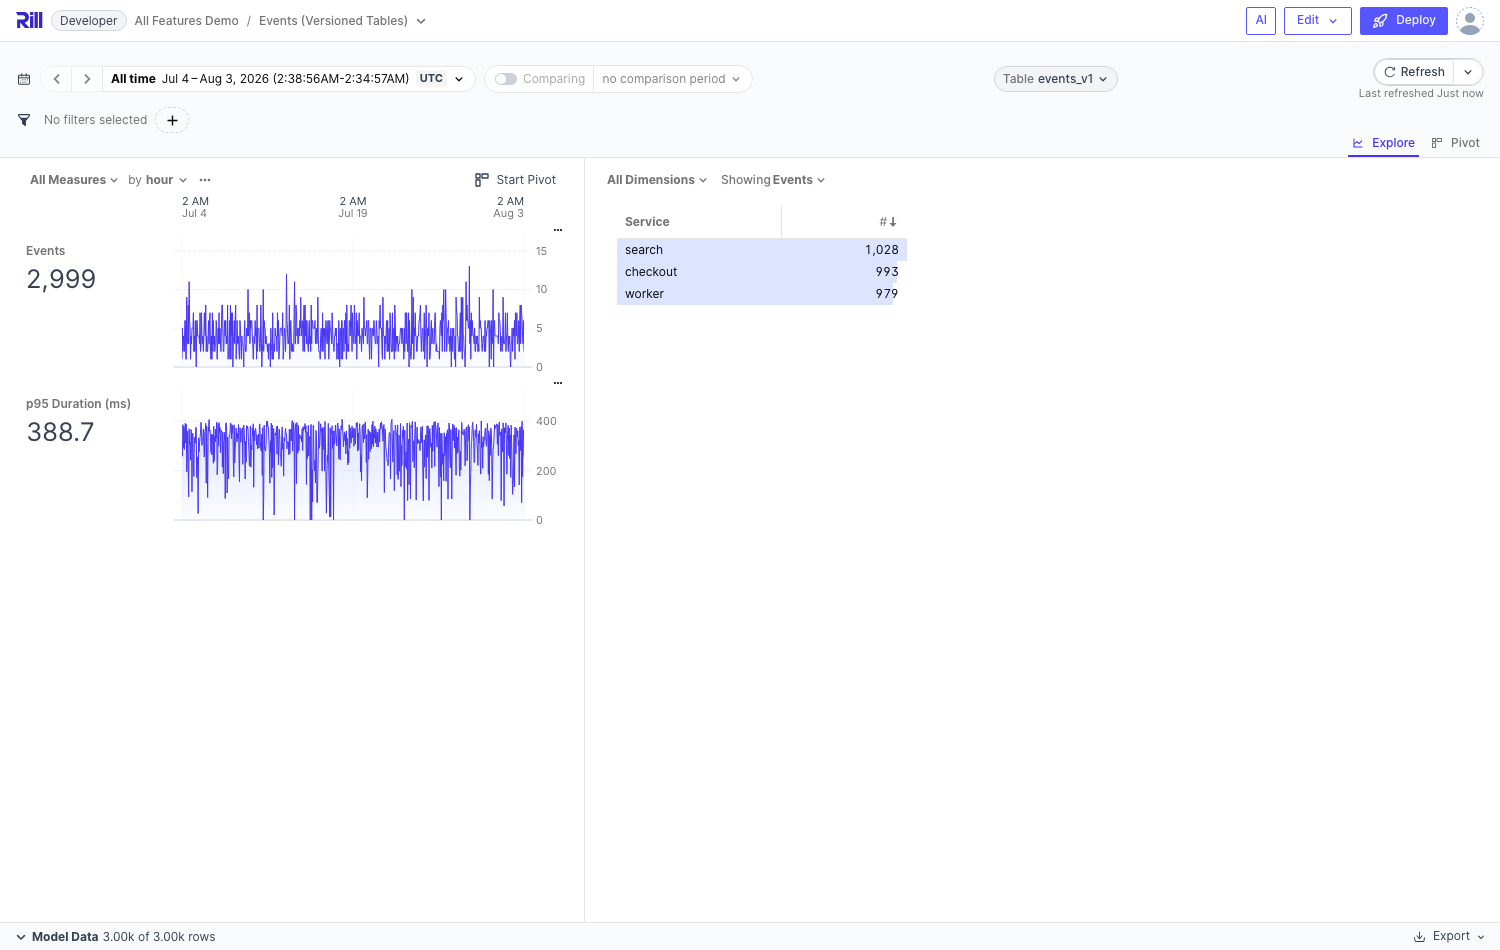
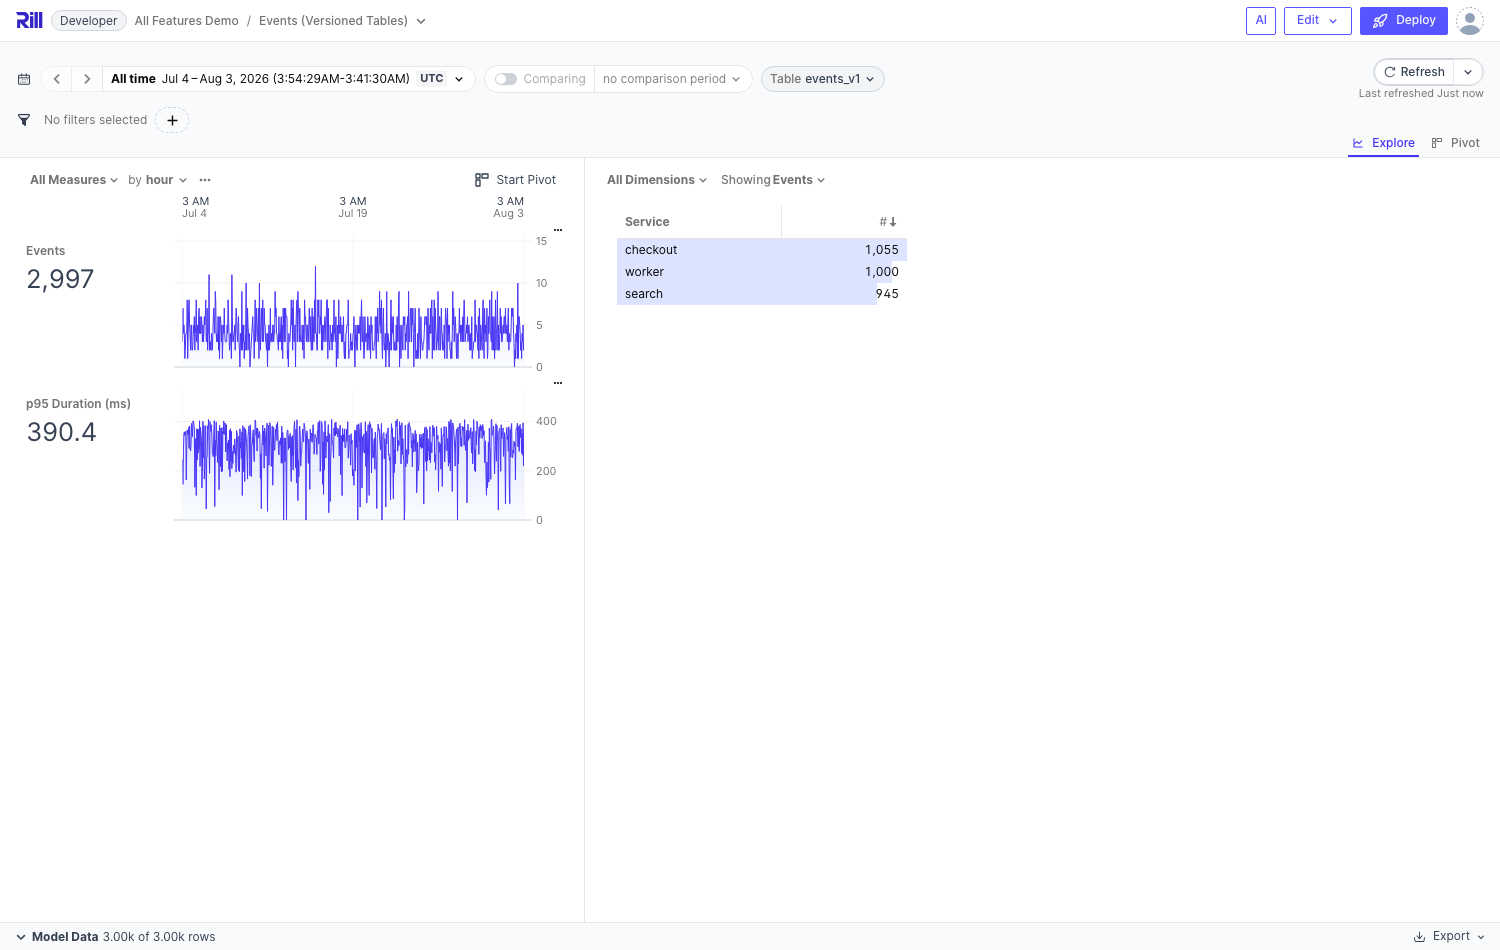
Refresh doc screenshots: table-options placement, Logs view with stack trace

diff --git a/feature-docs/08-logs-view.md b/feature-docs/08-logs-view.md
@@ -19,6 +19,10 @@ logs_view_columns: [Timestamp, ServiceName, SeverityText, Body]   # optional; de
 
 ![Logs view](screenshots/08-logs-view.png)
 
+![Expanded stack trace with copy buttons](screenshots/08-logs-stacktrace.png)
+*An expanded ERROR row: the stack trace renders with preserved newlines, Map columns
+pretty-print as JSON, and the detail offers "Copy log item" plus per-field copy.*
+
 ## How it works
 
 - Proto: `ExploreSpec.logs_view = 24`, `logs_view_columns = 25`,
